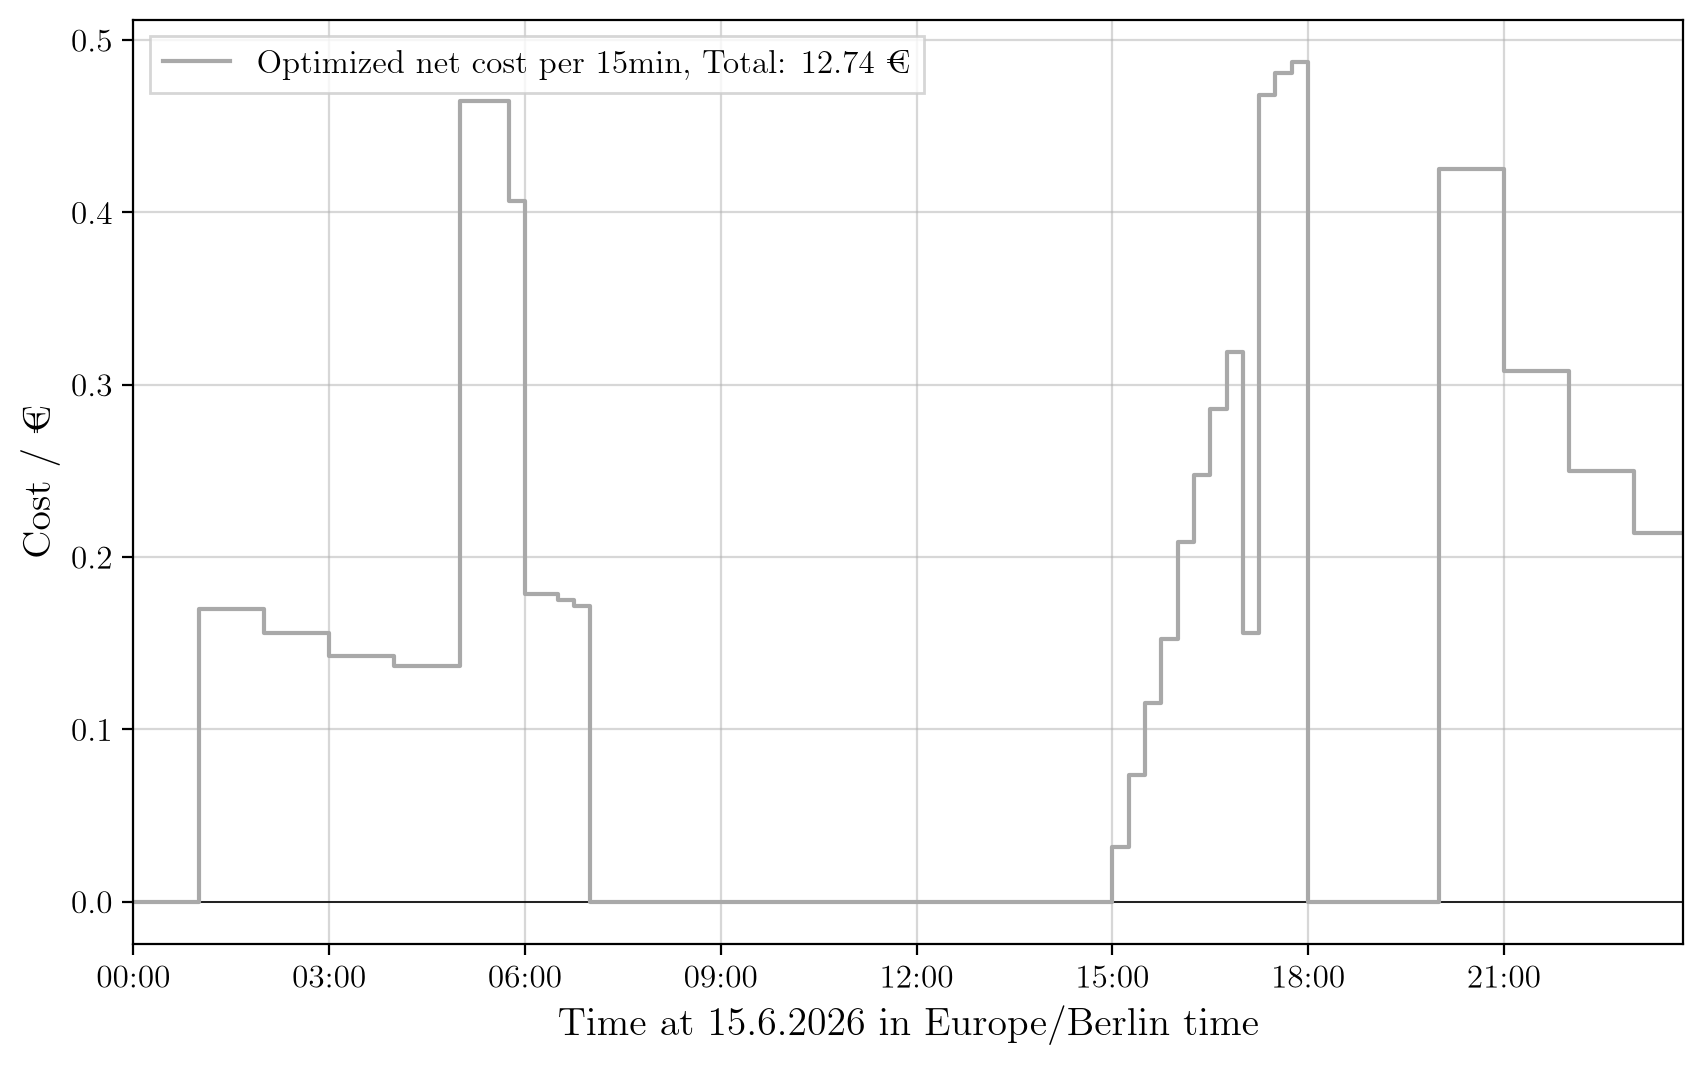
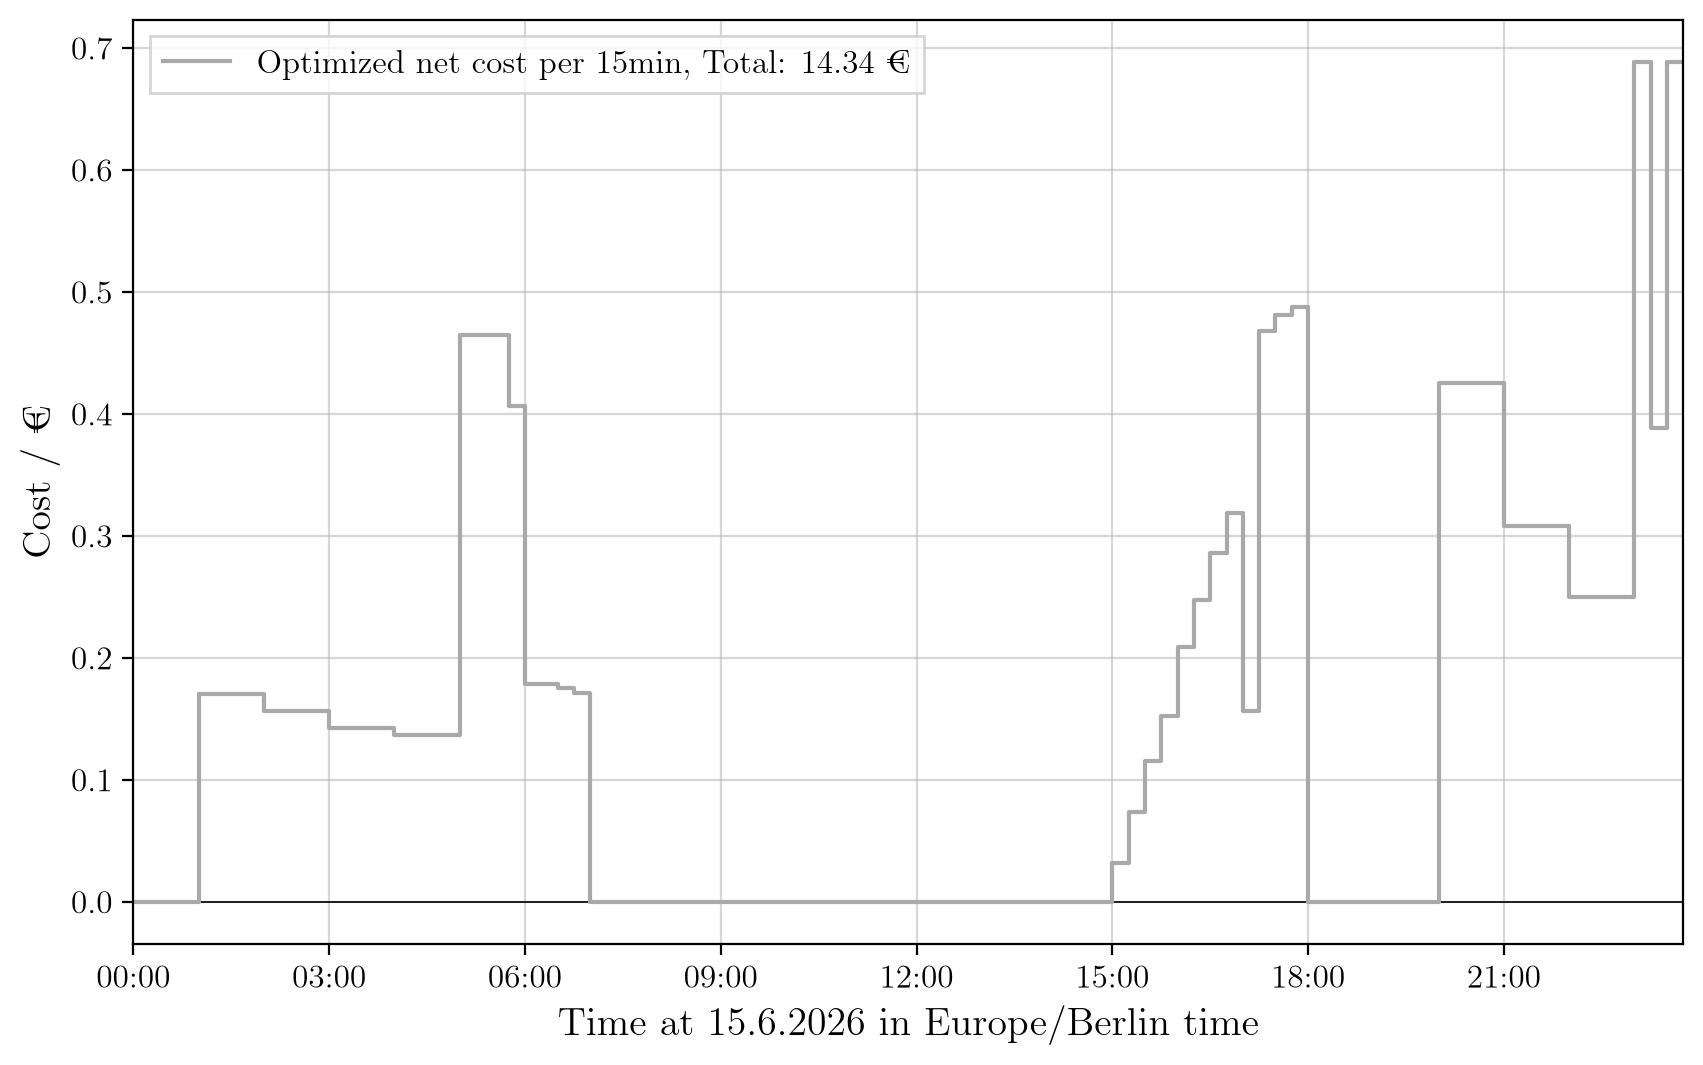
Require battery to end the day at its initial state of charge
Without balancing, the optimizer used up the 8 kWh stored at the start
of the day, which inflated the reported savings (12.74 € instead of
14.34 € vs. 16.01 € without battery). The assumption is documented in
the README; schedule CSV and plots are regenerated.

diff --git a/main.py b/main.py
@@ -54,7 +54,7 @@ plotter = EnergyPlotter(
 
 # Initialize optimizer
 optimizer = BatteryOptimizer(
-    battery_params=battery, penalty_weight=0.1, balanced=False, deg_cost=0.03
+    battery_params=battery, penalty_weight=0.1, balanced=True, deg_cost=0.03
 )
 
 ###########################################################

diff --git a/README.md b/README.md
@@ -47,6 +47,9 @@ The solution to the task is separated in four parts based on the assumptions out
 - **Time zones:**
 Due to a time zone mismatch between the PV data (*UTC*) and the consumption data (*Europe/Berlin local*), two options are being considered to fulfill the customer's request for a 24-hour battery schedule: either prefill the PV data with 0s for 2 hours during the night, as no PV is expected anyway, or assume a mislabelling of the consumption data and shift it to UTC as well. The fact that the test customer is located in the Europe/Berlin time zone is verified by the peak in the given PV data at noon local Berlin time. The script output can be in Europe/Berlin local time or UTC: this is managed with the argument `--timezone`. The default is Europe/Berlin local time. If the consumption data are to be shifted to UTC, the argument `--assume_mislabel` can be used. The default is no shift in time and the prefilling with 0s.
 
+- **Battery state of charge at the end of the day:**
+The battery has to end the 24 hours with the same state of charge it started with (10 kWh, `balanced=True`). Otherwise the optimizer would use up the energy that is already stored in the battery at the start of the day, and the reported savings compared to the scenario without battery would include this extra energy. With this constraint, the savings only result from operating the battery within the day.
+
 - **Battery degradation:**
 The _battery degradation costs_ applied in this model are 0.03€/kWh as a rough estimate. This also suppresses sharp jumps in the battery schedule.
 
